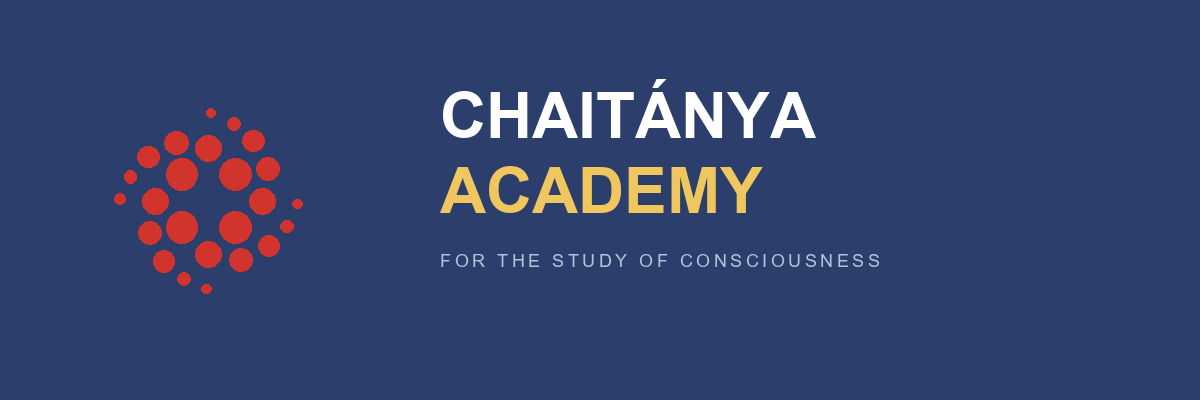
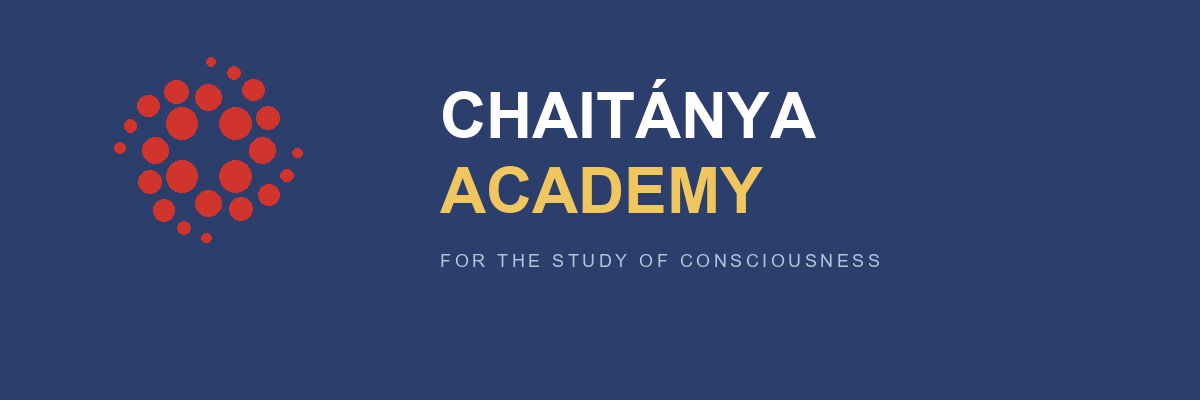
Align mandala center with gap between title lines in OG image

Changed region(s): [[0.0925, 0.15, 0.2775, 0.75]]

diff --git a/index.html b/index.html
@@ -8,7 +8,7 @@
     <!-- Open Graph (Telegram, WhatsApp, Facebook link preview) -->
     <meta property="og:title" content="Chaitanya Academy — Video & Audio Link Finder">
     <meta property="og:description" content="~10,000 MP3 files by Prem Prayojan Prabhu. Transcripts EN/LV/RU.">
-    <meta property="og:image" content="https://gurudas-sda.github.io/ca-link-finder/og-image.png?v=4">
+    <meta property="og:image" content="https://gurudas-sda.github.io/ca-link-finder/og-image.png?v=5">
     <meta property="og:image:width" content="1200">
     <meta property="og:image:height" content="400">
     <meta property="og:type" content="website">
@@ -16,7 +16,7 @@
     <meta name="twitter:card" content="summary_large_image">
     <meta name="twitter:title" content="Chaitanya Academy — Video & Audio Link Finder">
     <meta name="twitter:description" content="~10,000 MP3 files by Prem Prayojan Prabhu. Transcripts EN/LV/RU.">
-    <meta name="twitter:image" content="https://gurudas-sda.github.io/ca-link-finder/og-image.png?v=4">
+    <meta name="twitter:image" content="https://gurudas-sda.github.io/ca-link-finder/og-image.png?v=5">
 
     <!-- PWA & Icons -->
     <link rel="manifest" href="manifest.json">
